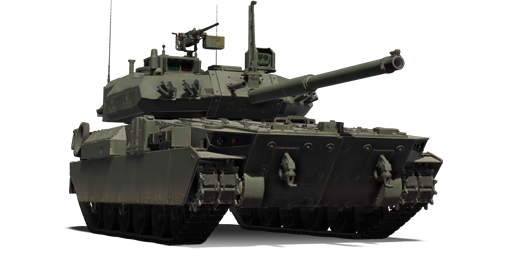
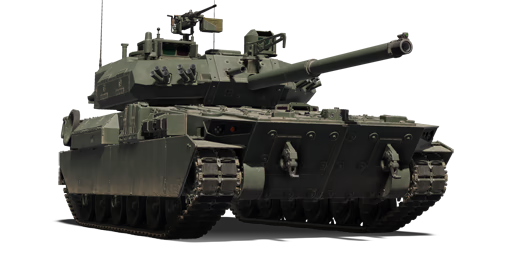
Subiendo imágenes de nueva actualización, cambiando scrapper en Path y actualizando modo oscuro

Changed region(s): [[0.0938, 0.0, 0.9062, 0.9688], [0.5938, 0.7812, 0.625, 0.8125]]

diff --git a/war-thunder-frontend/src/styles.css b/war-thunder-frontend/src/styles.css
@@ -38,31 +38,37 @@
 
 /* Tema oscuro */
 body.dark-mode {
-  --bg-primary: #1a1a1a;
-  --bg-secondary: #2a2a2a;
-  --bg-tertiary: #333333;
-  --bg-card: #2d2d2d;
-  --bg-header: linear-gradient(135deg, #4a5568 0%, #2d3748 100%);
-  --bg-input: #2d2d2d;
-  --bg-ammo: #111827;
+  /* Fondos principales - Tonos suaves de gris oscuro */
+  --bg-primary: #1e1e2e;      /* Fondo principal con toque azulado */
+  --bg-secondary: #252538;    /* Fondo secundario ligeramente más claro */
+  --bg-tertiary: #2d2d44;     /* Fondo terciario con más contraste */
+  --bg-card: #262637;         /* Tarjetas con ligero tinte morado */
+  --bg-header: linear-gradient(135deg, #5b6ee1 0%, #7c3aed 100%); /* Degradado vibrante */
+  --bg-input: #2a2a3e;        /* Inputs con toque azulado */
+  --bg-ammo: #1a1a28;         /* Fondo para municiones más oscuro */
   
-  --text-primary: #e5e5e5;
-  --text-secondary: #b0b0b0;
-  --text-tertiary: #888888;
-  --text-white: #ffffff;
-  --text-label: #b0b0b0;
+  /* Textos - Colores más cálidos y legibles */
+  --text-primary: #e4e4f0;    /* Texto principal ligeramente azulado */
+  --text-secondary: #a8a8c0;  /* Texto secundario con tinte lavanda */
+  --text-tertiary: #8585a0;   /* Texto terciario más sutil */
+  --text-white: #ffffff;      /* Blanco puro para contrastes */
+  --text-label: #b0b0cc;      /* Labels con tinte morado claro */
   
-  --border-color: #444;
-  --border-color-light: #555;
+  /* Bordes - Más sutiles y con toque de color */
+  --border-color: #3a3a52;    /* Borde principal con azul oscuro */
+  --border-color-light: #44445a; /* Borde claro más visible */
   
-  --shadow-sm: 0 2px 4px rgba(0,0,0,0.3);
-  --shadow-md: 0 4px 8px rgba(0,0,0,0.4);
-  --shadow-lg: 0 8px 20px rgba(0,0,0,0.5);
+  /* Sombras - Más profundas para mejor separación */
+  --shadow-sm: 0 2px 8px rgba(0,0,0,0.4);
+  --shadow-md: 0 4px 12px rgba(0,0,0,0.5);
+  --shadow-lg: 0 8px 24px rgba(0,0,0,0.6);
   
-  --btn-disabled-bg: #3a3a3a;
-  --btn-disabled-text: #666666;
+  /* Botones deshabilitados */
+  --btn-disabled-bg: #2f2f42;
+  --btn-disabled-text: #6a6a80;
   
-  --modal-overlay: rgba(0,0,0,0.8);
+  /* Overlay del modal más oscuro */
+  --modal-overlay: rgba(10,10,20,0.85);
 }
 /* ================================================================== */
 /* ANIMACIONES GLOBALES */

diff --git a/backend/warthunder_todos_tanques.py b/backend/warthunder_todos_tanques.py
@@ -3,6 +3,7 @@ import time
 from playwright.sync_api import sync_playwright
 import os
 import requests
+from pathlib import Path
 
 def limpiar_texto(texto):
     """Limpia saltos de línea y espacios extraños del texto"""
@@ -17,13 +18,16 @@ def descargar_imagen(url_img, nombre_tanque):
     """Descarga la imagen JPG del tanque en carpeta /imagenes."""
     if not url_img:
         return None
+    
+    BASE_DIR = Path(__file__).resolve().parent
+    IMAGENES = BASE_DIR / "imagenes"
 
     # Crear carpeta si no existe
-    os.makedirs("imagenes", exist_ok=True)
+    os.makedirs(IMAGENES, exist_ok=True)
 
     # Quitar caracteres raros del nombre para convertirlo a archivo
     nombre_archivo = nombre_tanque.replace(" ", "_").replace("/", "_").replace("\"", "") + ".jpg"
-    ruta_archivo = f"imagenes/{nombre_archivo}"
+    ruta_archivo: Path = IMAGENES / nombre_archivo
 
     try:
         # Descargar
@@ -31,7 +35,8 @@ def descargar_imagen(url_img, nombre_tanque):
         if r.status_code == 200:
             with open(ruta_archivo, "wb") as f:
                 f.write(r.content)
-            return ruta_archivo
+                print(str(ruta_archivo.relative_to(Path(__file__).resolve().parent)))
+            return str(ruta_archivo.relative_to(Path(__file__).resolve().parent)).replace("\\", "/")
         else:
             print(f"Error descargando {url_img}: {r.status_code}")
             return None
@@ -393,10 +398,12 @@ def fetch_all_tanks():
 
 
 if __name__ == "__main__":
+    BASE_DIR = Path(__file__).resolve().parent
+    TANQUES_JSON = BASE_DIR / "tanques.json"
     print("Iniciando scraping de War Thunder Wiki...\n")
     all_data = fetch_all_tanks()
     
-    with open("tanques.json", "w", encoding="utf-8") as f:
+    with open(TANQUES_JSON, "w", encoding="utf-8") as f:
         json.dump(all_data, f, indent=4, ensure_ascii=False)
     
     print(f"\n Datos guardados: {len(all_data)} tanques procesados")
